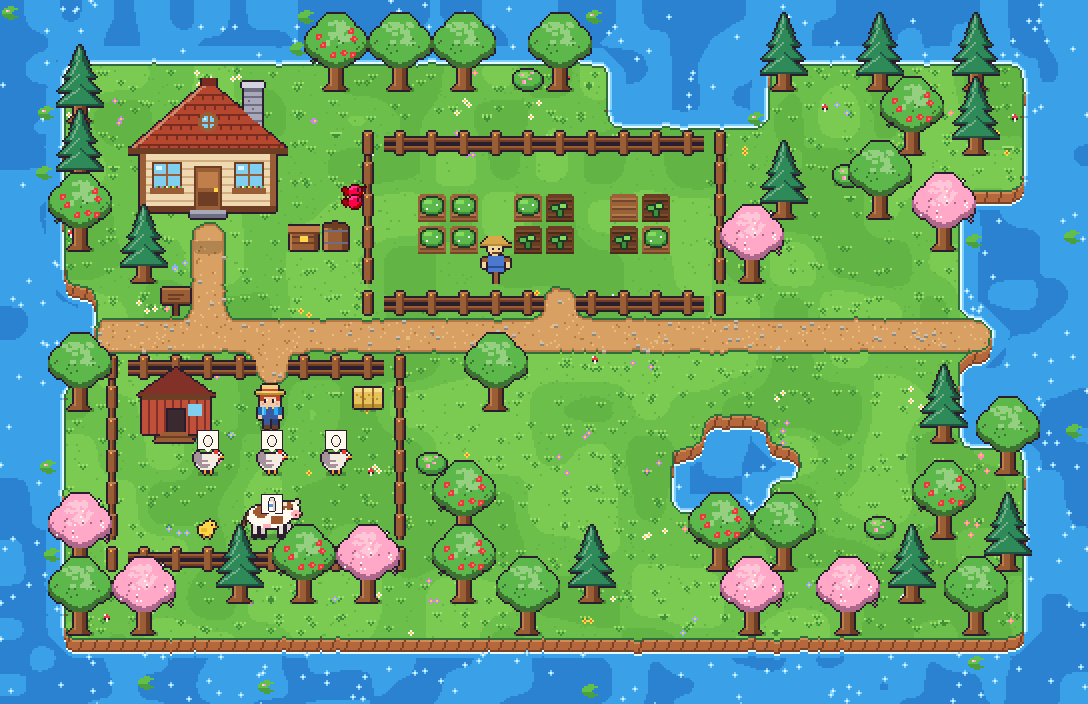
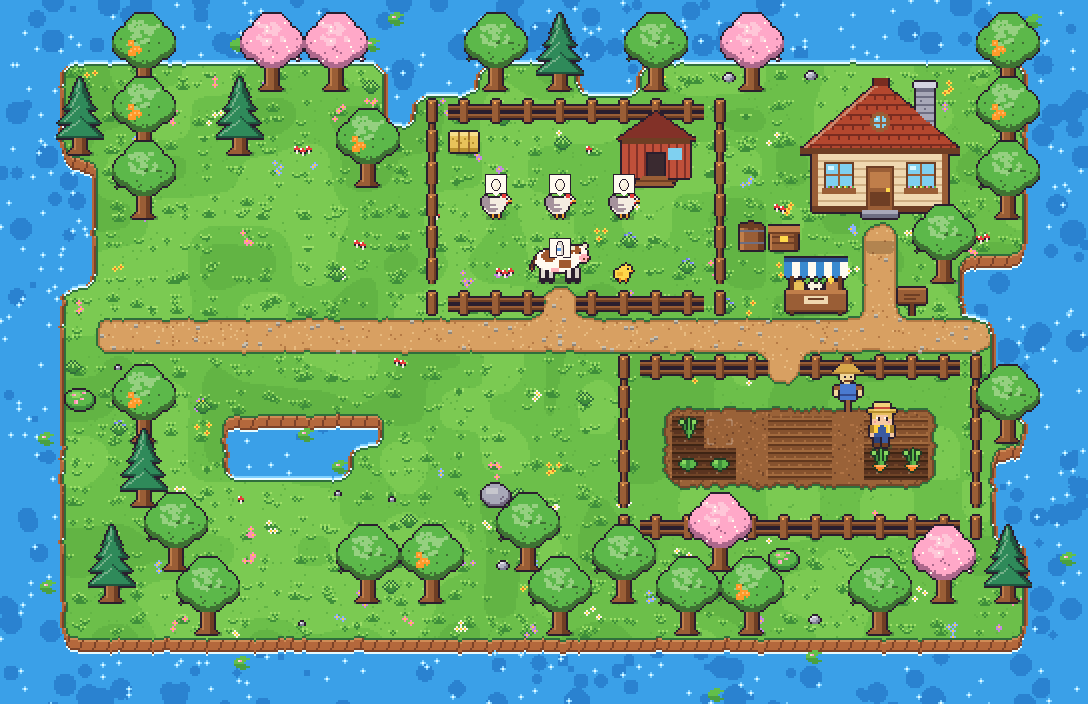
Farm look: grass clumps, a garden bed, pools of deep water; the farm leads the README
The farm ground gets clumps of grass blades, flowers in patches, stones,
ferns and bluebells, a tilled garden bed under the crop plots (tilled soil
now fills its tile so plots join into one dug patch), deep water as round
pools, and earth showing on the east and west edges of islands. The README
opens with the farm, recorded from a farm the model made from the
caption's prompt.

diff --git a/compiler/spawnpoint/sprites/farm.py b/compiler/spawnpoint/sprites/farm.py
@@ -1,9 +1,9 @@
 """Cozy farm art: the ground of a whole farm map and the farm's objects, animals and crops, drawn in a
 16-pixel tile language and shown at 2 screen pixels per art pixel (one 16 px art tile = one 32 px world tile).
 
-The look: soft green grass with tufts and little flowers, dirt paths with rounded, bumpy edges and a dark rim,
-water with a light shore line and sparkles, and a brown cliff face wherever land drops into the water to the south
-(islands). Everything is drawn here from code; no image files are read.
+The look: green grass thick with clumps of blades and little flowers, dirt paths with rounded, bumpy edges and a
+dark rim, a tilled garden bed under the crop plots, water with pools of deeper blue, a light shore line and sparkles,
+and a brown earth edge wherever land meets the water (a cliff face to the south, on islands). Everything is drawn here from code; no image files are read.
 
     terrain_image(rows, seed)   -> RGBA array of the whole map ground (16 px per cell)
     paint_*(...)                -> the object painters used through generate.py's farm kinds
@@ -41,21 +41,25 @@ SEASONS: dict[str, dict] = {
     "spring": {"grass": GRASS, "light": GRASS_LIGHT, "dark": GRASS_DARK, "edge": GRASS_EDGE, "tuft": TUFT,
                "tuft_light": TUFT_LIGHT, "dirt": DIRT, "dirt_light": DIRT_LIGHT, "dirt_dark": DIRT_DARK,
                "water": WATER, "deep": WATER_DEEP, "shore": WATER_LIGHT, "foam": FOAM, "flowers": FLOWERS,
-               "lilies": True, "mushrooms": True, "tufts": (1, 2, 2, 3)},
+               "lilies": True, "mushrooms": True, "tufts": (1, 2, 2, 3), "clumps": (0, 1, 1, 2)},
     "autumn": {"grass": _c("#d8973f"), "light": _c("#e0a148"), "dark": _c("#d08d3a"), "edge": _c("#7a3f22"),
                "tuft": _c("#a8582a"), "tuft_light": _c("#f0b860"), "dirt": _c("#c98a52"), "dirt_light": _c("#dca06a"),
                "dirt_dark": _c("#a86a3a"), "water": WATER, "deep": WATER_DEEP, "shore": WATER_LIGHT, "foam": FOAM,
                "flowers": [_c("#ffd84a"), _c("#e85a3a"), _c("#f8f4ea")], "lilies": False, "mushrooms": True,
-               "tufts": (1, 1, 2)},
+               "tufts": (1, 1, 2), "clumps": (0, 1, 1)},
     "winter": {"grass": _c("#e8f0f8"), "light": _c("#f2f7fc"), "dark": _c("#e0e9f4"), "edge": _c("#8a9ec0"),
                "tuft": _c("#b8c8dc"), "tuft_light": _c("#ffffff"), "dirt": _c("#b0a294"), "dirt_light": _c("#c8bcb0"),
                "dirt_dark": _c("#8e7e70"), "water": _c("#8cc8ec"), "deep": _c("#78b4e0"), "shore": _c("#c4e8fa"),
-               "foam": _c("#f0faff"), "flowers": [], "lilies": False, "mushrooms": False, "tufts": (0, 1)},
+               "foam": _c("#f0faff"), "flowers": [], "lilies": False, "mushrooms": False, "tufts": (0, 1), "clumps": (0, 0, 1),
+               "bed": (_c("#a08a7a"), _c("#7e6a5e"), _c("#bca898"))},
     "desert": {"grass": _c("#ecca8a"), "light": _c("#f0d29a"), "dark": _c("#e4c080"), "edge": _c("#a87a44"),
                "tuft": _c("#b8a050"), "tuft_light": _c("#d8c070"), "dirt": _c("#c98458"), "dirt_light": _c("#d89a6c"),
                "dirt_dark": _c("#a8683e"), "water": WATER, "deep": WATER_DEEP, "shore": WATER_LIGHT, "foam": FOAM,
-               "flowers": [_c("#ff8fb4"), _c("#ffd84a")], "lilies": True, "mushrooms": False, "tufts": (0, 0, 1)},
+               "flowers": [_c("#ff8fb4"), _c("#ffd84a")], "lilies": True, "mushrooms": False, "tufts": (0, 0, 1),
+               "clumps": (0, 0, 1), "bed": (_c("#b4784a"), _c("#8a5434"), _c("#c88e5c"))},
 }
+
+BED = (_c("#9a6238"), _c("#74462a"), _c("#b07446"))  # a tilled garden bed: earth, its dark rim, light crumbs
 
 # Terrain characters (one per map cell).
 GRASS_C, PATH_C, WATER_C, FIELD_C, SAND_C = ".", ":", "~", ",", "_"
@@ -156,12 +160,12 @@ def terrain_image(rows: list[str], seed: int = 0, season: str = "spring") -> np.
     # grass: two tones in soft patches, specks of darker green
     img[:] = P["grass"]
     patches = _noise(H, W, 24, nrng, 6.0)
-    img[patches > 0.60] = P["light"]
-    img[patches < 0.36] = P["dark"]
+    img[patches > 0.64] = P["light"]
+    img[patches < 0.32] = P["dark"]
     specks = nrng.random((H, W)) < 0.012
     img[specks & land] = P["dark"]
 
-    # tufts and flowers on plain grass cells (fields stay tidy)
+    # tufts, clumps of blades and flowers on plain grass cells (fields stay tidy)
     rnd = _rng("tufts", seed)
     for y in range(hh):
         for x in range(ww):
@@ -169,10 +173,28 @@ def terrain_image(rows: list[str], seed: int = 0, season: str = "spring") -> np.
                 continue
             for _ in range(rnd.choice(P["tufts"])):
                 _tuft(img, x * CELL + rnd.randint(2, 12), y * CELL + rnd.randint(4, 13), rnd, P)
-            if P["flowers"] and rnd.random() < 0.16:
+            for _ in range(rnd.choice(P["clumps"])):
+                _clump(img, x * CELL + rnd.randint(3, 12), y * CELL + rnd.randint(6, 14), rnd, P)
+            if P["flowers"] and rnd.random() < 0.2:
                 col = rnd.choice(P["flowers"])
-                for _ in range(rnd.randint(1, 3)):
-                    _flower(img, x * CELL + rnd.randint(2, 13), y * CELL + rnd.randint(2, 13), col)
+                fx, fy = x * CELL + rnd.randint(3, 12), y * CELL + rnd.randint(3, 12)
+                for _ in range(rnd.randint(2, 4)):  # flowers grow in little patches
+                    _flower(img, fx + rnd.randint(-3, 3), fy + rnd.randint(-3, 3), col)
+
+    # the garden bed: tilled earth under the crop plots (the field minus its outer ring), with a bumpy edge
+    field = grid == FIELD_C
+    inner = field.copy()
+    for dy in (-1, 0, 1):
+        for dx in (-1, 0, 1):
+            inner &= np.roll(np.roll(field, dy, 0), dx, 1)
+    if inner.any():
+        earth, rim_c, crumb = P.get("bed", BED)
+        bed = _dilate(_soft_mask(inner, 2.5, _noise(H, W, 2, nrng, 0.6), 0.55), 3)
+        img[bed] = earth
+        img[bed & (nrng.random((H, W)) < 0.06)] = crumb
+        img[bed & (nrng.random((H, W)) < 0.04)] = rim_c
+        img[bed & (_ring(~bed) | _shift(~bed, -1, 0))] = rim_c   # a dark rim, thicker under the top edge
+        img[_ring(bed)] = P["edge"]
 
     # sand (beaches)
     img[sand] = SAND
@@ -193,8 +215,15 @@ def terrain_image(rows: list[str], seed: int = 0, season: str = "spring") -> np.
     # water: deep middle, light shore line, sparkles; a brown cliff where land drops into it to the south
     dist = _depth(water, 12)
     img[water] = P["water"]
-    deep = water & (dist > 9) & (_noise(H, W, 14, nrng, 4.0) > 0.52)
-    img[deep] = P["deep"]
+    deep = np.zeros_like(water)
+    yy, xx = np.mgrid[0:H, 0:W]
+    open_water = np.argwhere(water & (dist > 5))
+    for k in nrng.choice(len(open_water), size=min(len(open_water), max(1, len(open_water) // 260)), replace=False) \
+            if len(open_water) else []:
+        cy, cx = open_water[k]
+        r = nrng.uniform(1.5, 6.5)
+        deep |= (yy - cy) ** 2 + (xx - cx) ** 2 <= r * r
+    img[deep & water & (dist > 3)] = P["deep"]
     img[water & (dist <= 2)] = P["shore"]
     cliff = np.zeros_like(water)
     for k in range(1, 7):
@@ -208,6 +237,10 @@ def terrain_image(rows: list[str], seed: int = 0, season: str = "spring") -> np.
     img[water & ~cliff & _shift(cliff, 1, 0)] = P["foam"]                 # foam at the foot of the cliff
     img[_ring(water) & land & ~cliff] = P["edge"]                   # the grass lip around the water
     img[_ring(land) & water & ~cliff] = P["foam"]                         # a thin light line on the water side
+    beside = _shift(land, 0, 1) | _shift(land, 0, -1)
+    side = water & ~cliff & (beside | _shift(beside, 0, 1) | _shift(beside, 0, -1)) & ~_shift(land, -1, 0) & ~_shift(land, 1, 0)
+    img[side] = CLIFF                                               # earth showing where the land ends east and west
+    img[side & beside] = CLIFF_DARK
     sparkle = water & ~cliff & (dist > 3) & (nrng.random((H, W)) < 0.004)
     for y, x in zip(*np.nonzero(sparkle)):
         _sparkle(img, x, y, P)
@@ -223,8 +256,15 @@ def terrain_image(rows: list[str], seed: int = 0, season: str = "spring") -> np.
                     _lily(img, cx + rnd.randint(-3, 3), cy + rnd.randint(-3, 3), rnd)
                 elif 2 < dist[cy, cx] <= 6 and rnd.random() < 0.12:
                     _reeds(img, cx + rnd.randint(-5, 5), cy + rnd.randint(-2, 4))
-            elif P["mushrooms"] and grid[y, x] == GRASS_C and rnd.random() < 0.025:
-                _mushroom(img, x * CELL + rnd.randint(3, 12), y * CELL + rnd.randint(5, 13))
+            elif grid[y, x] == GRASS_C:
+                px, py, roll = x * CELL + rnd.randint(3, 12), y * CELL + rnd.randint(6, 13), rnd.random()
+                if P["mushrooms"] and roll < 0.025:
+                    for k in range(rnd.randint(1, 3)):  # a little ring of them
+                        _mushroom(img, px + k * 3 - 2, py + (k % 2))
+                elif roll < 0.045:
+                    _stone(img, px, py, rnd.random() < 0.5)
+                elif roll < 0.07 and season != "winter":
+                    _sprig(img, px, py, P, rnd.random() < 0.4 and season == "spring")
     _indoors(img, grid)
     return img
 
@@ -331,6 +371,79 @@ def _tuft(img: np.ndarray, x: int, y: int, rnd: random.Random, P: dict) -> None:
     for dx, dy, col in ((0, 0, t), (-1, -1, t), (1, -1, t), (-2, -2, tl), (2, -2, tl), (0, -2, tl if rnd.random() < 0.5 else t)):
         if 0 <= y + dy < h and 0 <= x + dx < w:
             img[y + dy, x + dx] = col
+
+
+CLUMP = ("...l...",
+         ".l.d.l.",
+         ".d.d.d.",
+         "d.ddd.d",
+         ".ddddd.")
+CLUMP_SMALL = ("l...l",
+               "d.l.d",
+               ".ddd.")
+
+
+def _clump(img: np.ndarray, x: int, y: int, rnd: random.Random, P: dict) -> None:
+    """A clump of grass blades standing on (x, y): dark blades, light tips."""
+    shape = CLUMP if rnd.random() < 0.5 else CLUMP_SMALL
+    h, w = img.shape[:2]
+    top, half = y - len(shape) + 1, len(shape[0]) // 2
+    for r, row in enumerate(shape):
+        for c, ch in enumerate(row):
+            yy, xx = top + r, x - half + c
+            if ch != "." and 0 <= yy < h and 0 <= xx < w:
+                img[yy, xx] = P["tuft"] if ch == "d" else P["tuft_light"]
+
+
+STONE_ART = {"big": ("..OOO..",
+                     ".OLLSO.",
+                     "OLSSSDO",
+                     "OSSSDDO",
+                     ".ODDDO."),
+             "small": (".OO.",
+                       "OLSO",
+                       "ODDO")}
+
+
+def _stone(img: np.ndarray, x: int, y: int, big: bool) -> None:
+    """A grey stone sitting in the grass, lit from the top left."""
+    col = {"O": OUTLINE, "L": _c("#e4e4ec"), "S": _c("#b4b4c4"), "D": _c("#7e7e94")}
+    shape = STONE_ART["big" if big else "small"]
+    h, w = img.shape[:2]
+    for r, row in enumerate(shape):
+        for c, ch in enumerate(row):
+            yy, xx = y - len(shape) + 1 + r, x - len(row) // 2 + c
+            if ch in col and 0 <= yy < h and 0 <= xx < w:
+                img[yy, xx] = col[ch]
+
+
+SPRIG = ("..L.L..",
+         ".LDLDL.",
+         "LDDLDDL",
+         ".DDDDD.",
+         "..DDD..")
+
+
+def _sprig(img: np.ndarray, x: int, y: int, P: dict, bluebells: bool) -> None:
+    """A leafy weed (a fern, or bluebells in spring) with a dark outline, a little bigger than a clump."""
+    leaf, dark = P["tuft_light"], P["tuft"]
+    h, w = img.shape[:2]
+    top = y - len(SPRIG) + 1
+    solid = set()
+    for r, row in enumerate(SPRIG):
+        for c, ch in enumerate(row):
+            if ch != ".":
+                solid.add((top + r, x - 3 + c))
+                if 0 <= top + r < h and 0 <= x - 3 + c < w:
+                    img[top + r, x - 3 + c] = leaf if ch == "L" else dark
+    for yy, xx in {(a + dy, b + dx) for a, b in solid for dy, dx in ((1, 0), (-1, 0), (0, 1), (0, -1))} - solid:
+        if 0 <= yy < h and 0 <= xx < w:
+            img[yy, xx] = P["edge"]
+    if bluebells:
+        for bx, by in ((x - 2, top - 1), (x + 2, top), (x, top - 2)):
+            if 0 <= by < h and 0 <= bx + 1 < w:
+                img[by, bx] = _c("#6a7ae8")
+                img[by, bx + 1] = _c("#9aa8ff")
 
 
 def _flower(img: np.ndarray, x: int, y: int, col: RGBA) -> None:
@@ -1271,16 +1384,19 @@ def _outline_dark(g: Fig, col: RGBA = _c("#1e3a24")) -> None:
 
 
 def soil_tile(wet: bool) -> np.ndarray:
-    """A 16x16 tilled patch: rounded, with furrows; darker when watered."""
-    base, dark, light = (_c("#6a3e24"), _c("#4a2a18"), _c("#7e4c2c")) if wet else (_c("#9a6238"), _c("#74462a"), _c("#b47a48"))
+    """A 16x16 tilled patch: ridges and furrows over the whole tile, so plots side by side make one dug patch on the
+    garden bed; darker when watered."""
+    base, dark, light = (_c("#5a3420"), _c("#3e2414"), _c("#704428")) if wet else (_c("#86522e"), _c("#62381e"), _c("#a26a3e"))
     g = Fig(CELL, CELL)
-    g.rect(1, 1, 14, 14, base)
-    for p in ((1, 1), (14, 1), (1, 14), (14, 14)):
-        g.px[p[1], p[0]] = (0, 0, 0, 0)
-    for y in (4, 8, 12):
-        g.rect(2, y, 13, y, dark)
-        g.rect(2, y - 1, 13, y - 1, light)
-    g.rect(1, 14, 14, 14, dark)
+    g.rect(0, 0, 15, 15, base)
+    for y in (2, 6, 10, 14):
+        g.rect(0, y, 15, y, dark)          # the furrow
+        g.rect(0, y - 1, 15, y - 1, light)  # the lit top of the ridge above it
+        for x in range((y * 3) % 5, 16, 5):
+            g.set(x, y - 2, light)           # crumbs
+    if wet:
+        for x, y in ((3, 4), (11, 8), (6, 12)):
+            g.set(x, y, _c("#8a6a52"))       # a glint of water
     return g.px
 
 

diff --git a/README.md b/README.md
@@ -21,10 +21,11 @@ so there are no assets to find and no licenses to worry about. The result is a r
 ⭐ **If Spawn Point drew something fun or useful, a star helps other people find it. If it drew something wrong, [open an issue](https://github.com/leluong141996-dev/Spawn-Point/issues/new) with your prompt: the model's tests grow from prompts that broke.**
 
 <p align="center">
-  <img src="https://raw.githubusercontent.com/leluong141996-dev/Spawn-Point/main/docs/media/cards-fight.gif" width="48%" alt="A card battle in a willow forest: a ranger plays cards against a piranha plant and a wolf">
-  <img src="https://raw.githubusercontent.com/leluong141996-dev/Spawn-Point/main/docs/media/cards-run.gif" width="48%" alt="A card game run at night: the map, an event, a knight fighting skeletons and bats">
+  <img src="https://raw.githubusercontent.com/leluong141996-dev/Spawn-Point/main/docs/media/farm-field.gif" width="48%" alt="A cozy island farm: the farmer tills, plants and waters the garden bed inside the fenced field">
+  <img src="https://raw.githubusercontent.com/leluong141996-dev/Spawn-Point/main/docs/media/farm-animals.gif" width="48%" alt="The animal pen: chickens, a chick and a cow by the red coop, the farmer collecting eggs and milk">
 </p>
-<p align="center"><sub>New in 0.4: a Slay the Spire style card game from one sentence ("game thẻ bài, hiệp sĩ đánh lũ xương khô, trùm là Lich").</sub></p>
+<p align="center"><sub>A cozy island farm from one sentence ("game nông trại trên đảo, trồng cà rốt và dâu tây"): plant, water, harvest,
+look after the animals, sell at the market. Every pixel is drawn by code. <a href="docs/genres.md">More genres</a>, including a Slay the Spire style card game.</sub></p>
 
 <p align="center"><b><a href="https://leluong141996-dev.github.io/Spawn-Point/">▶ Play the demos in your browser</a></b>: a Slay the Spire style card game, a Mario-style platformer, a
 knight with a sword, tower defense, a ninja rescue, a dinosaur-egg bubble shooter, a survivor with level-ups, a cozy
